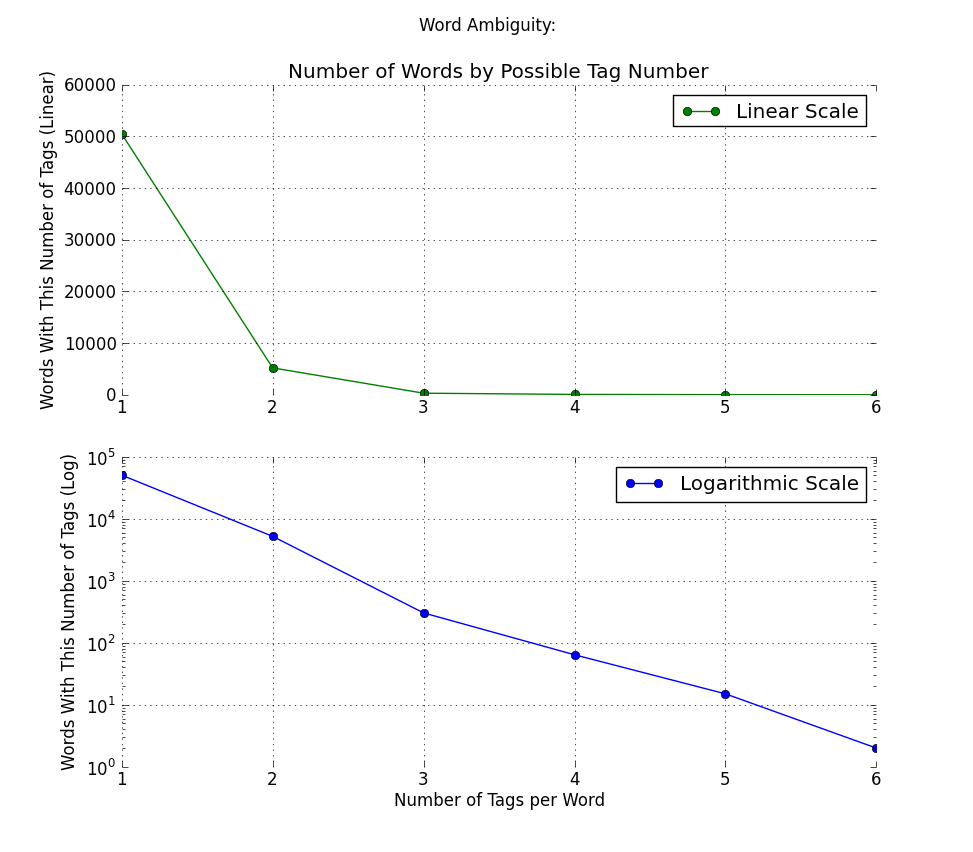
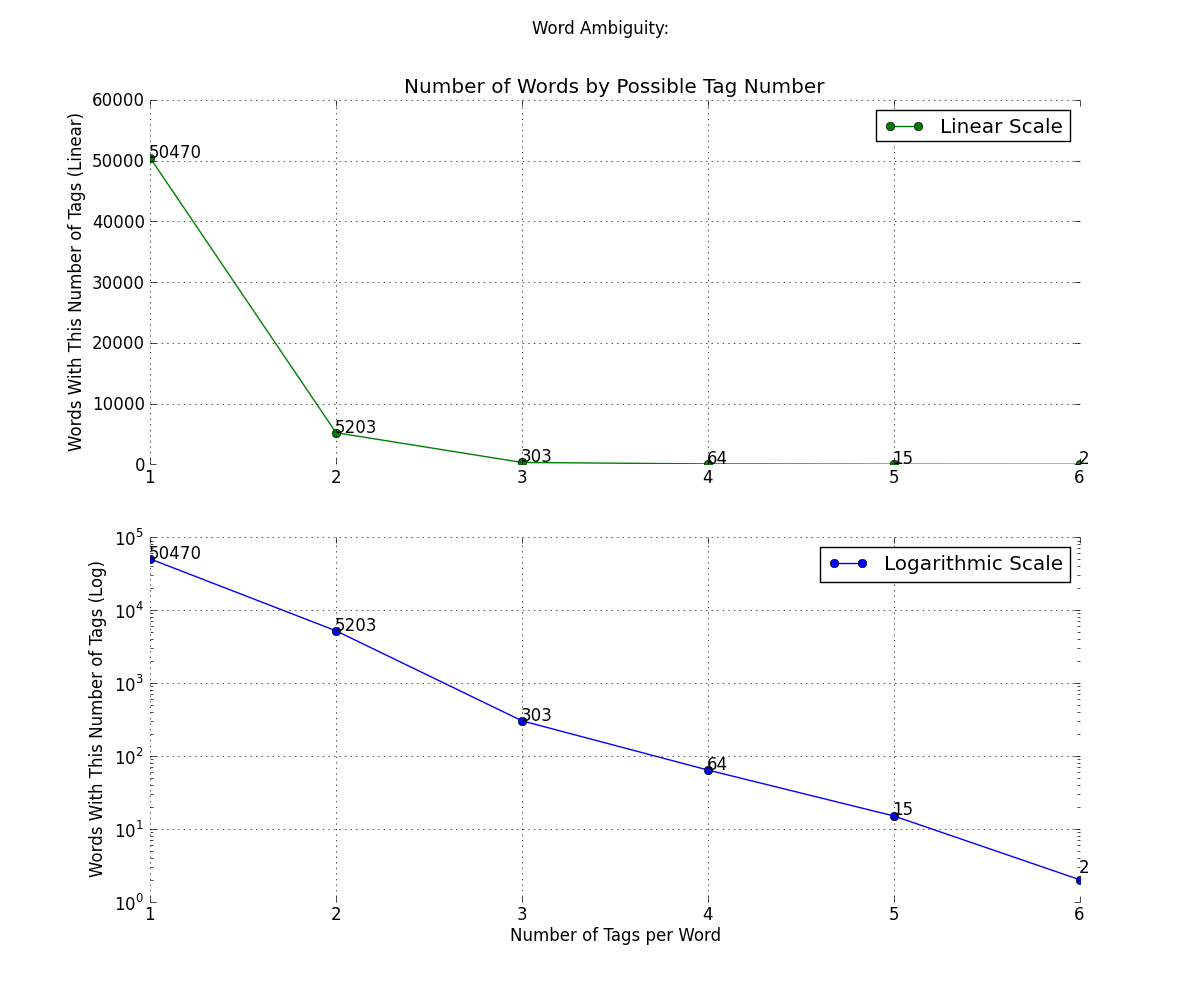
starting to work on the affix tagger

diff --git a/hw1/report.html b/hw1/report.html
@@ -324,6 +324,9 @@ def PlotNumberOfTags(corpus):
     pylab.grid('on')                 # for better appearance
     pylab.ylabel('Words With This Number of Tags (Linear)')
     pylab.legend(loc=0)
+    # add value tags
+    for x,y in zip(C.keys(), C.values()):
+        pylab.annotate(str(y), (x,y + 0.5))
 
     pylab.subplot(212)
     pylab.plot(C.keys(), C.values(), '-bo', label='Logarithmic Scale')
@@ -333,8 +336,9 @@ def PlotNumberOfTags(corpus):
     pylab.xlabel('Number of Tags per Word')
     pylab.ylabel('Words With This Number of Tags (Log)')
     pylab.legend(loc=0)
-
-    pylab.show()
+    # add value tags
+    for x,y in zip(C.keys(), C.values()):
+        pylab.annotate(str(y), (x,y + 0.5))
 
 </pre>
 
@@ -344,7 +348,13 @@ def PlotNumberOfTags(corpus):
 </p>
 
 
-<pre class="example">
+<pre class="example">    pylab.legend(loc=0)
+    # add value tags
+    for x,y in zip(C.keys(), C.values()):
+        pylab.annotate(str(y), (x,y + 0.5))
+
+    pylab.show()
+
 
 
 
@@ -370,12 +380,6 @@ def TestMostAmbiguousWords(cfd, N):
 def ShowExamples(word, cfd, corpus):
     for tag in cfd[word].keys():
         print '\'{}\' as {}: {}\n'.format(word, tag, example(word, tag, corpus))
-
-
-def example(word, tag, corpus):
-    idx = corpus.index((word, tag))
-    sent = corpus[idx-10:idx] + [(word.upper(), tag)] + corpus[idx+1:idx+11]
-    return ' '.join(word for (word, tag) in sent)
 
 
 </pre>
@@ -432,6 +436,12 @@ out, to create the different graphs):
 
 <pre class="example">
 
+def example(word, tag, corpus):
+    idx = corpus.index((word, tag))
+    sent = corpus[idx-10:idx] + [(word.upper(), tag)] + corpus[idx+1:idx+11]
+    return ' '.join(word for (word, tag) in sent)
+
+
 
 
 def correl_plot3D(corpus):
@@ -474,12 +484,6 @@ def correl_plot3D(corpus):
 
     pylab.subplot(223)
     pylab.scatter(zs, xs)
-    pylab.title('word ambiguity - word length')
-    pylab.xlabel('word ambiguity')
-    pylab.ylabel('word length')
-
-    pylab.show()
-
 </pre>
 
 </div>
@@ -502,23 +506,25 @@ def correl_plot3D(corpus):
 </p>
 
 
-<pre class="example">from nltk.tag.api import TaggerI
+<pre class="example">    pylab.ylabel('word length')
+
+    pylab.show()
+
+
+
+from nltk.tag.api import TaggerI
 import nltk
 
 class MyUnigramTagger(TaggerI):
     def __init__(self, train=None, model=None,
                  backoff=None, cutoff=0, verbose=False):
         if type(train[0]) == tuple:
-            self.cfd = nltk.ConditionalFreqDist(train)
-            self.default_tag = nltk.FreqDist(tag for (word, tag) in train).max()
-            self.wordset = set(word for (word, tag) in train)
-
+            pass
         elif type(train[0][0]) == tuple:
-            flattened_train = flatten(train)
-            self.cfd = nltk.ConditionalFreqDist(flattened_train)
-            self.default_tag = nltk.FreqDist(tag for (word, tag) in flattened_train).max()
-            self.wordset = set(word for (word, tag) in flattened_train)
-
+            train = flatten(train)            
+        self.cfd = nltk.ConditionalFreqDist(train)
+        self.default_tag = nltk.FreqDist(tag for (word, tag) in train).max()
+        self.wordset = set(word for (word, tag) in train)
 
     def tag(self, tokens):
         # docs inherited from TaggerI
@@ -530,8 +536,6 @@ class MyUnigramTagger(TaggerI):
 # This really should have come with either itertools or standard lib..
 from itertools import chain
 def flatten(listOfLists):
-    "Flatten one level of nesting"
-    return chain.from_iterable(listOfLists)
 </pre>
 
 </div>

diff --git a/hw1/code2.py b/hw1/code2.py
@@ -20,6 +20,9 @@ def PlotNumberOfTags(corpus):
     pylab.grid('on')                 # for better appearance
     pylab.ylabel('Words With This Number of Tags (Linear)')
     pylab.legend(loc=0)
+    # add value tags
+    for x,y in zip(C.keys(), C.values()):
+        pylab.annotate(str(y), (x,y + 0.5))
 
     pylab.subplot(212)
     pylab.plot(C.keys(), C.values(), '-bo', label='Logarithmic Scale')
@@ -29,7 +32,10 @@ def PlotNumberOfTags(corpus):
     pylab.xlabel('Number of Tags per Word')
     pylab.ylabel('Words With This Number of Tags (Log)')
     pylab.legend(loc=0)
-    
+    # add value tags
+    for x,y in zip(C.keys(), C.values()):
+        pylab.annotate(str(y), (x,y + 0.5))
+        
     pylab.show()
 
 
